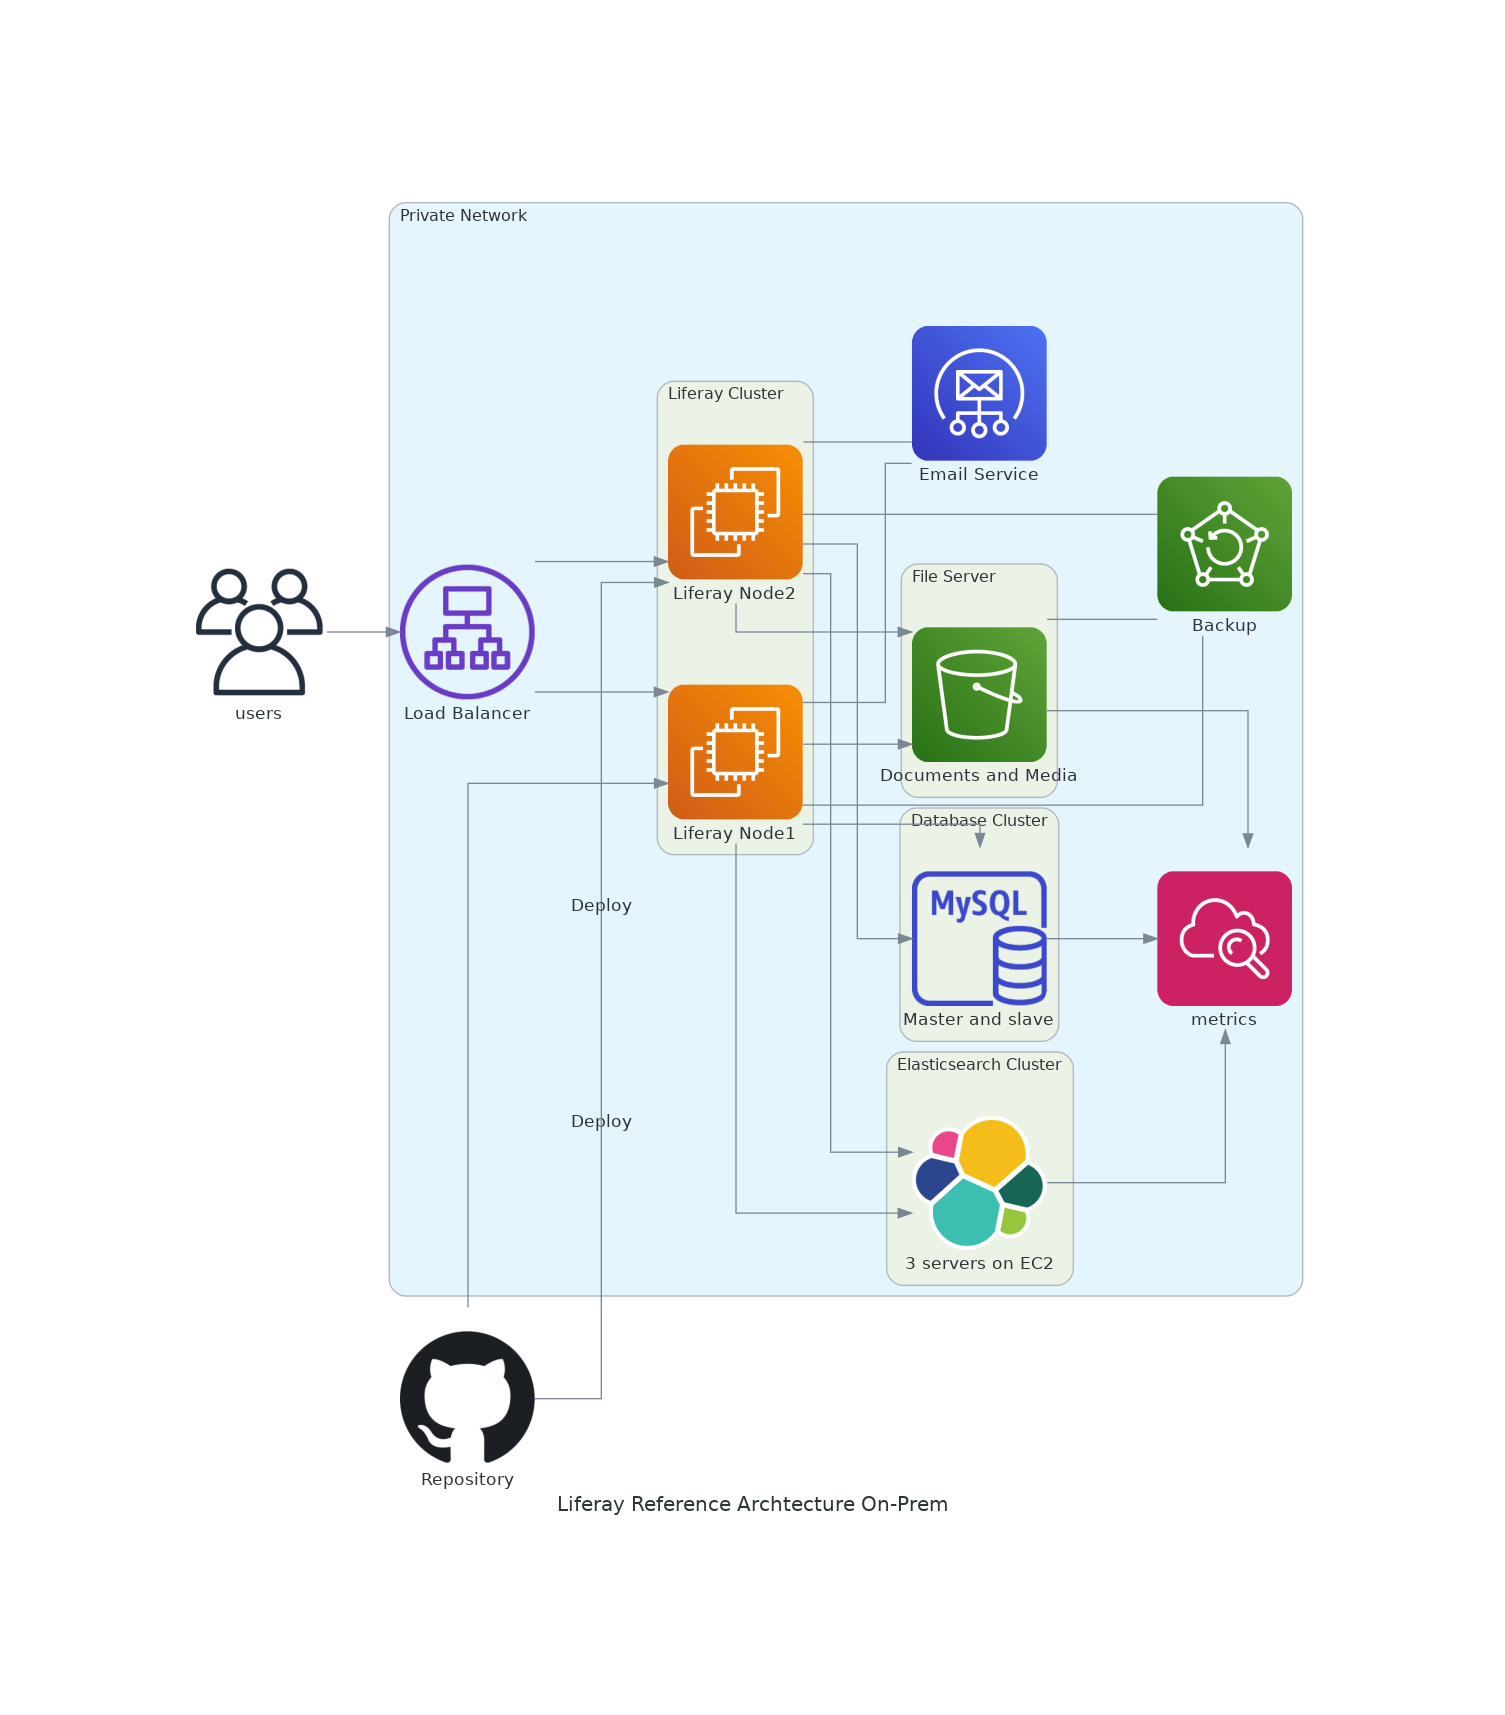
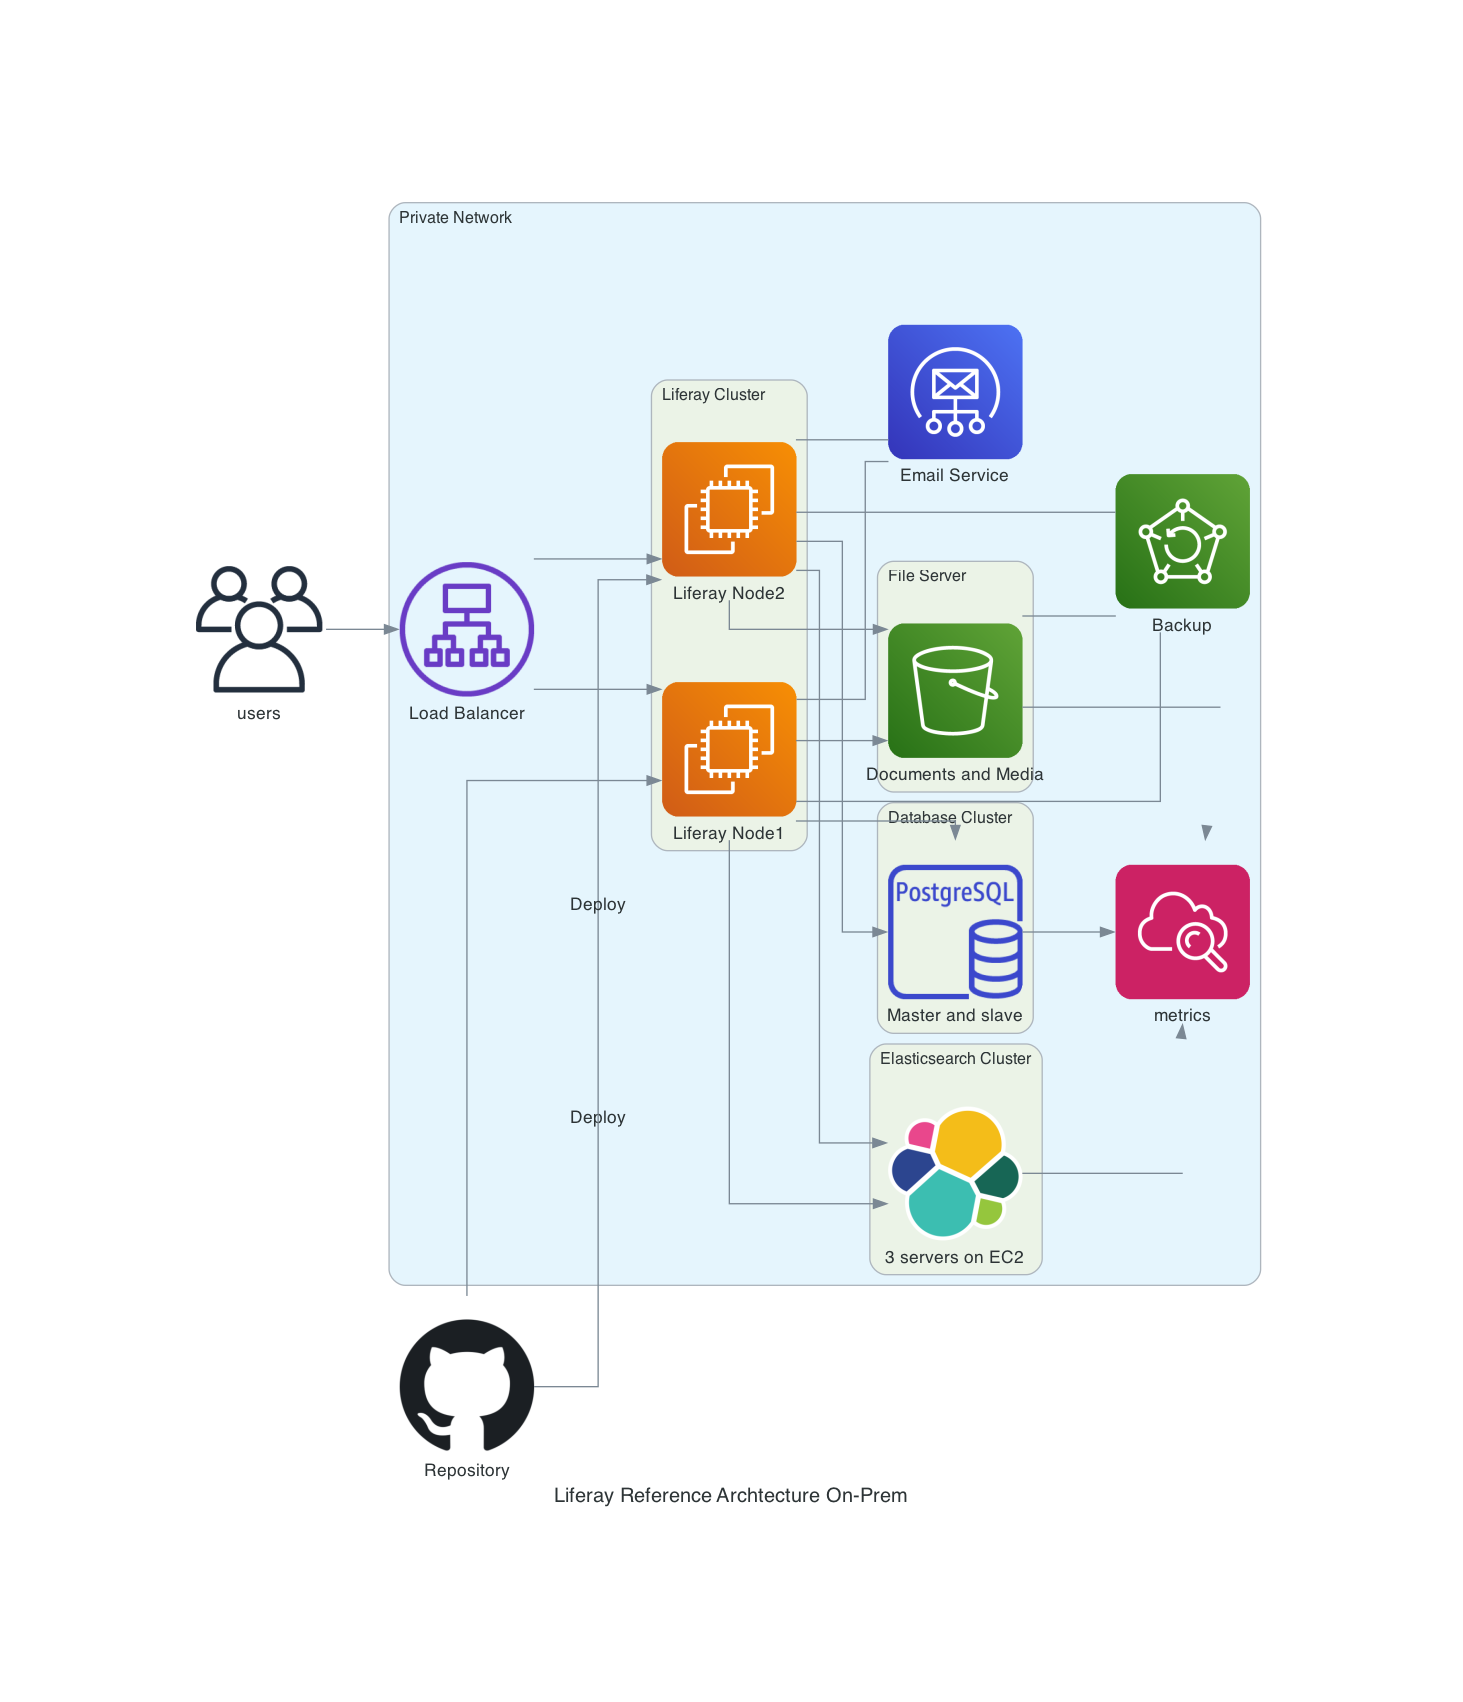
Update database to Postgres

diff --git a/diagram.py b/diagram.py
@@ -14,7 +14,7 @@ from diagrams.generic.compute import Rack
 from diagrams.onprem.vcs import Github
 from diagrams.aws.network import ALB
 from diagrams.aws.compute import EC2
-from diagrams.aws.database import RDSMysqlInstance
+from diagrams.aws.database import RDSPostgresqlInstance 
 from diagrams.aws.management import Cloudwatch
 from diagrams.aws.storage import S3, Backup
 from diagrams.aws.engagement  import SES
@@ -33,7 +33,7 @@ with Diagram("Liferay Reference Archtecture On-Prem",  filename="diagram", show=
             lrsvc = [EC2("Liferay Node1"), EC2("Liferay Node2")]
 
         with Cluster("Database Cluster"):
-            dbs = RDSMysqlInstance("Master and slave")
+            dbs = RDSPostgresqlInstance("Master and slave")
             lrsvc >> dbs >> metrics
 
         with Cluster("Elasticsearch Cluster"):
